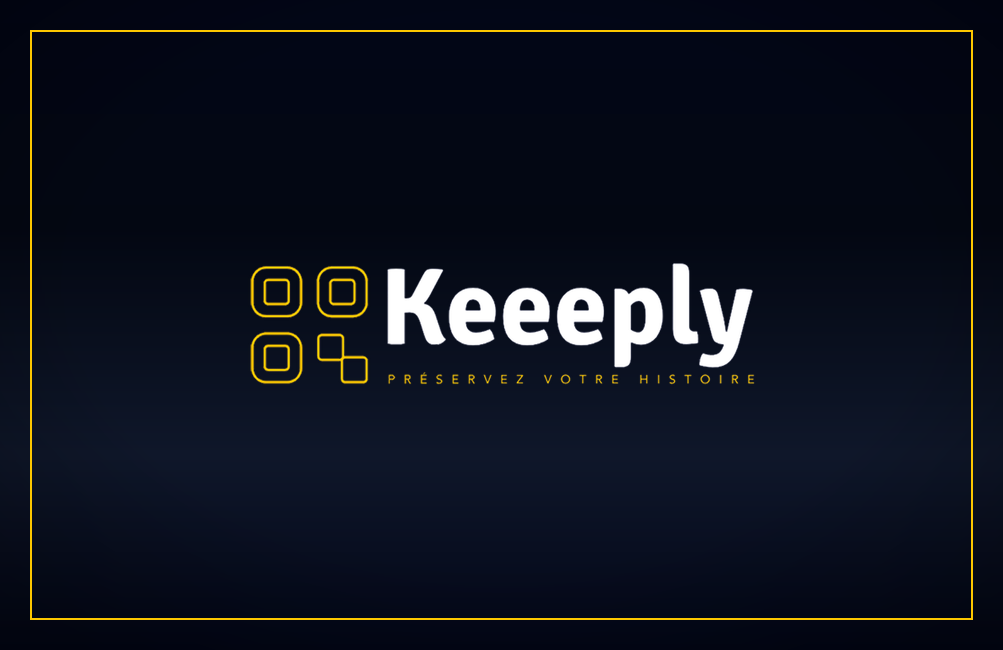
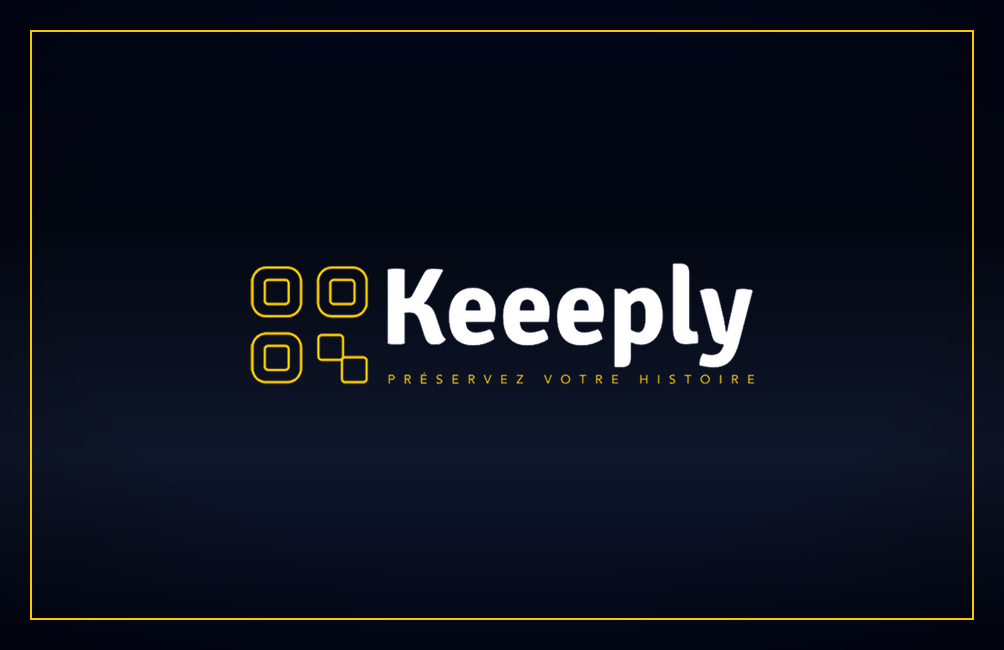
[FEATURE-ALPHA] generate-business-card

diff --git a/frontend/index.html b/frontend/index.html
@@ -78,43 +78,43 @@
 
     <link
       rel="apple-touch-startup-image"
-      href="/splash/iphone-750x1334-v55.png"
+      href="/splash/iphone-750x1334-v56.png"
       media="(device-width: 375px) and (device-height: 667px) and (-webkit-device-pixel-ratio: 2) and (orientation: portrait)"
     />
 
     <link
       rel="apple-touch-startup-image"
-      href="/splash/iphone-828x1792-v55.png"
+      href="/splash/iphone-828x1792-v56.png"
       media="(device-width: 414px) and (device-height: 896px) and (-webkit-device-pixel-ratio: 2) and (orientation: portrait)"
     />
 
     <link
       rel="apple-touch-startup-image"
-      href="/splash/iphone-1170x2532-v55.png"
+      href="/splash/iphone-1170x2532-v56.png"
       media="(device-width: 390px) and (device-height: 844px) and (-webkit-device-pixel-ratio: 3) and (orientation: portrait)"
     />
 
     <link
       rel="apple-touch-startup-image"
-      href="/splash/iphone-1179x2556-v55.png"
+      href="/splash/iphone-1179x2556-v56.png"
       media="(device-width: 393px) and (device-height: 852px) and (-webkit-device-pixel-ratio: 3) and (orientation: portrait)"
     />
 
     <link
       rel="apple-touch-startup-image"
-      href="/splash/iphone-1290x2796-v55.png"
+      href="/splash/iphone-1290x2796-v56.png"
       media="(device-width: 430px) and (device-height: 932px) and (-webkit-device-pixel-ratio: 3) and (orientation: portrait)"
     />
 
     <link
       rel="apple-touch-startup-image"
-      href="/splash/ipad-1668x2388-v55.png"
+      href="/splash/ipad-1668x2388-v56.png"
       media="(device-width: 834px) and (device-height: 1194px) and (-webkit-device-pixel-ratio: 2) and (orientation: portrait)"
     />
 
     <link
       rel="apple-touch-startup-image"
-      href="/splash/ipad-2048x2732-v55.png"
+      href="/splash/ipad-2048x2732-v56.png"
       media="(device-width: 1024px) and (device-height: 1366px) and (-webkit-device-pixel-ratio: 2) and (orientation: portrait)"
     />
 

diff --git a/frontend/src/scripts/generate-business-card.js b/frontend/src/scripts/generate-business-card.js
@@ -42,7 +42,7 @@ if (!fs.existsSync(outputDir)) {
 /* --------------------------------------------------
  * Dimensions carte de visite (85 × 55 mm @ 300 DPI)
  * -------------------------------------------------- */
-const width = 1003;
+const width = 1004;
 const height = 650;
 
 /* --------------------------------------------------
